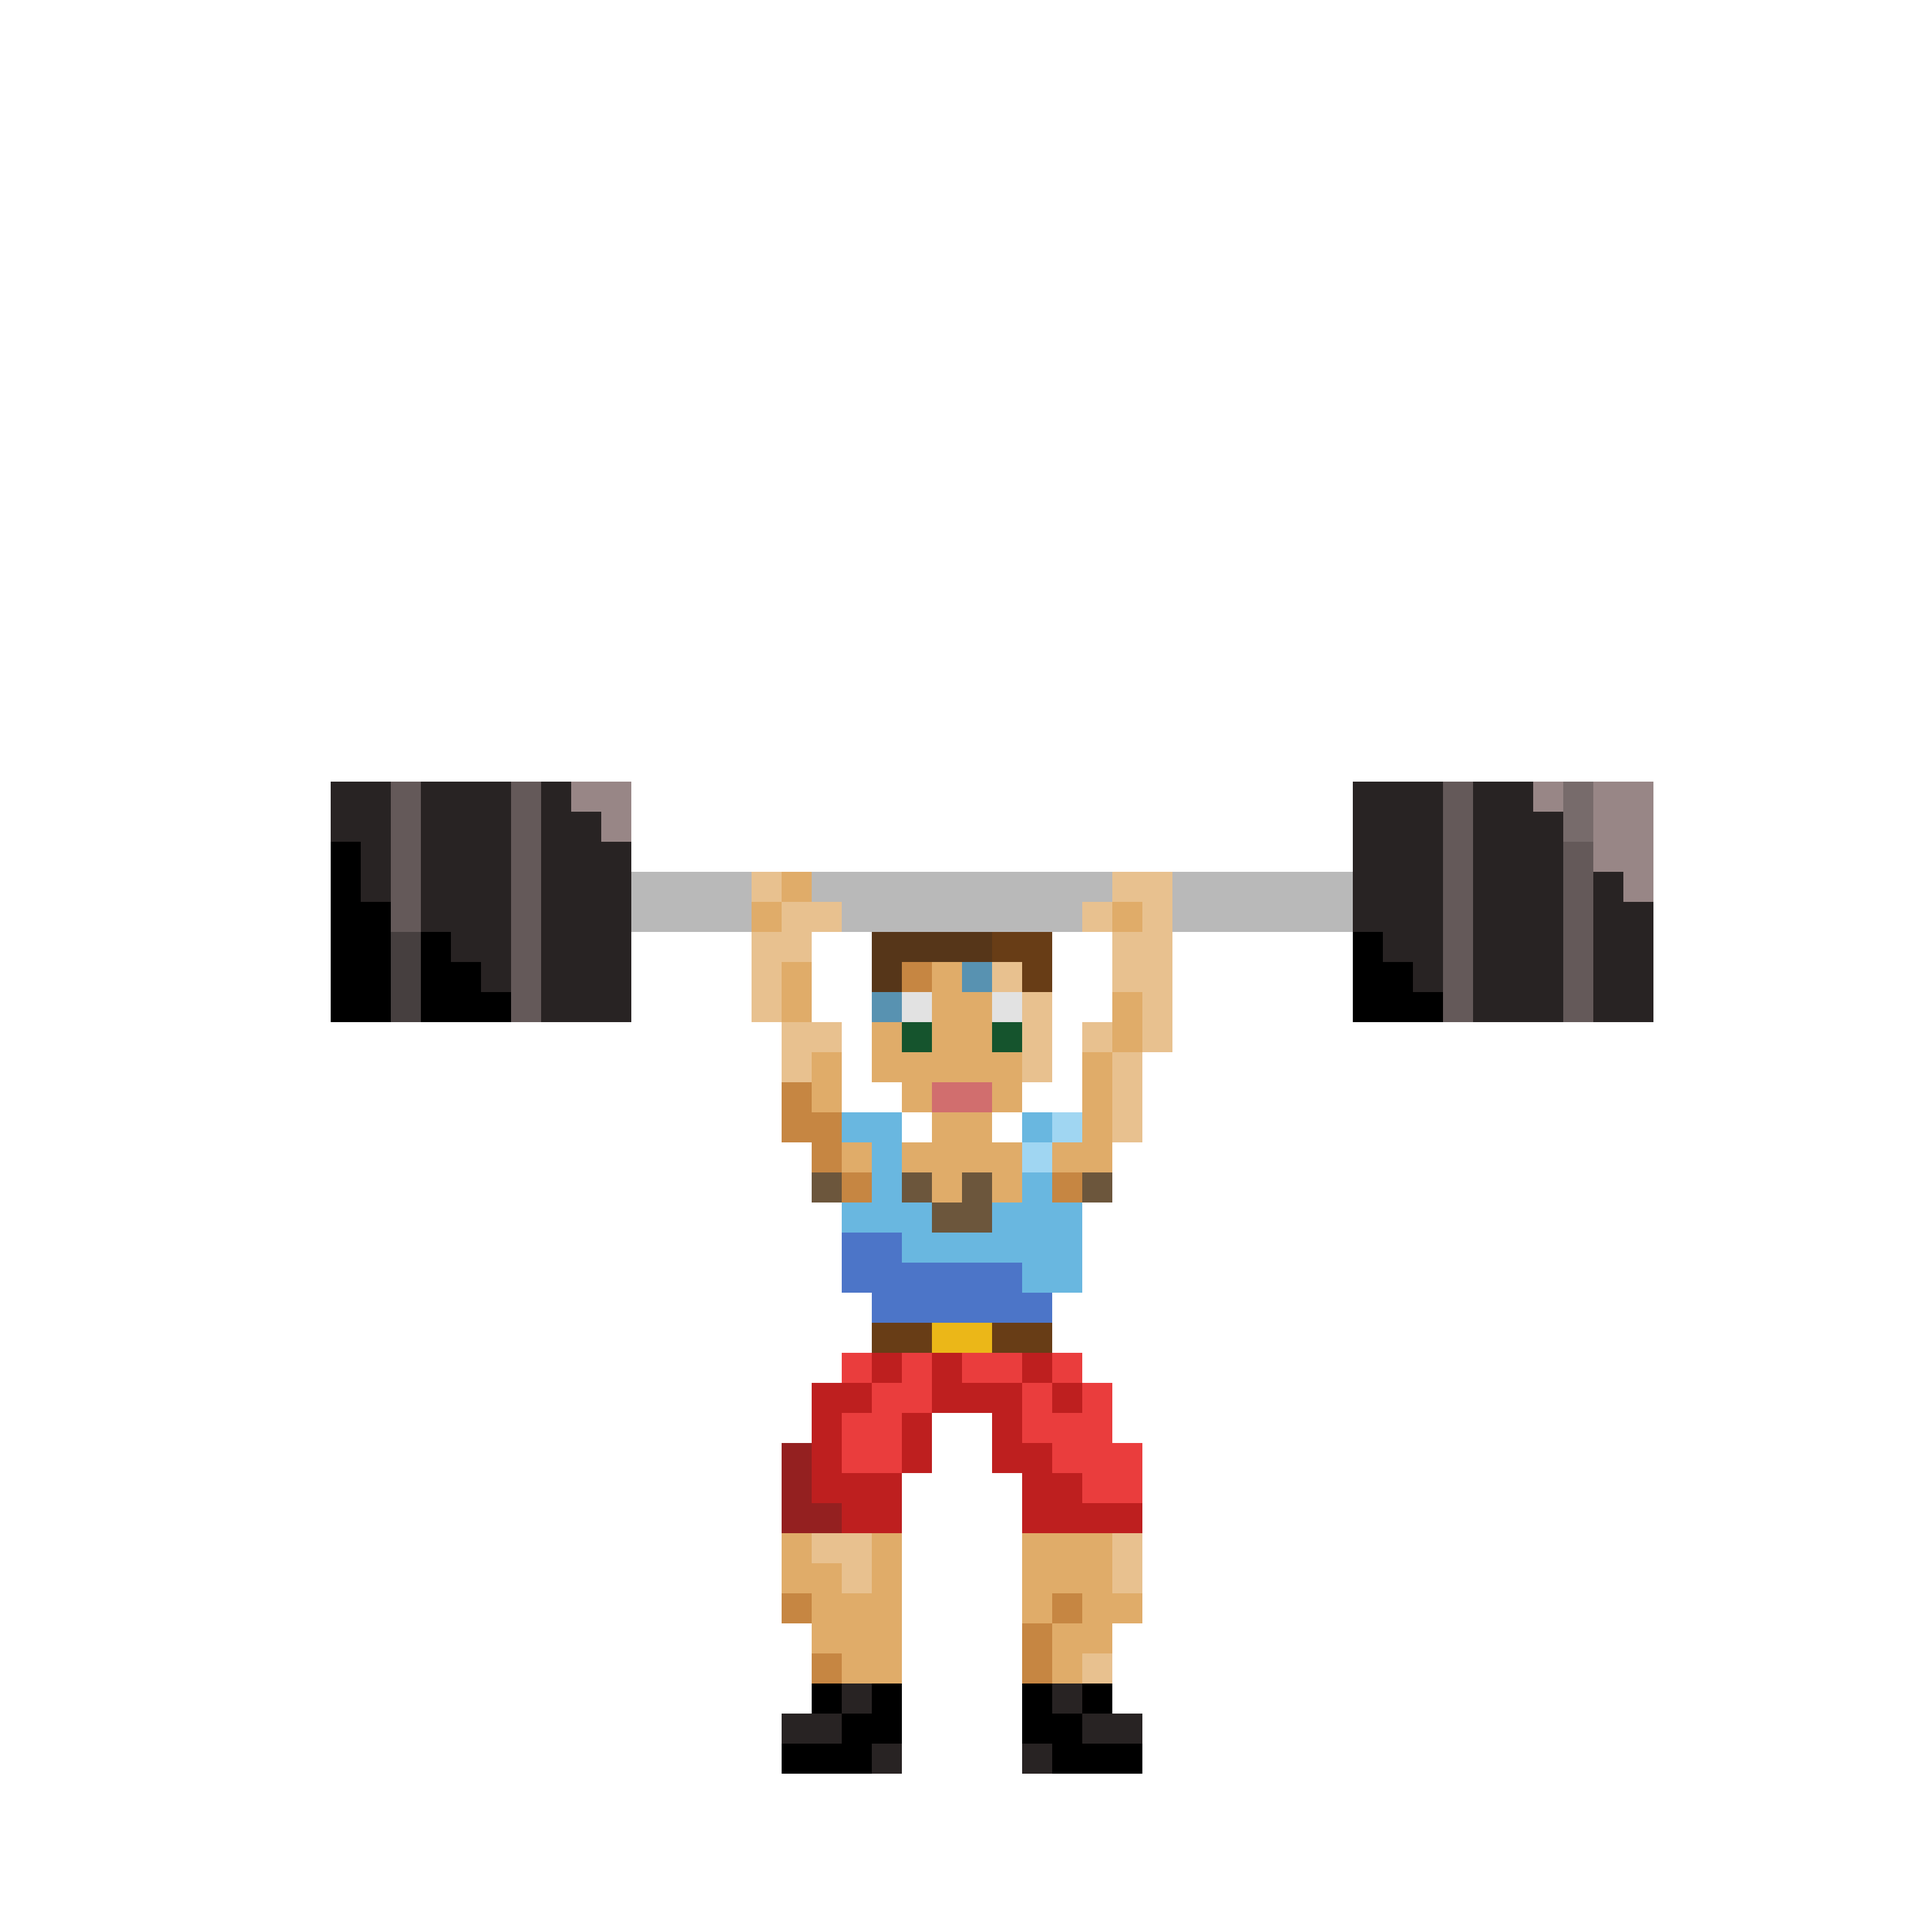
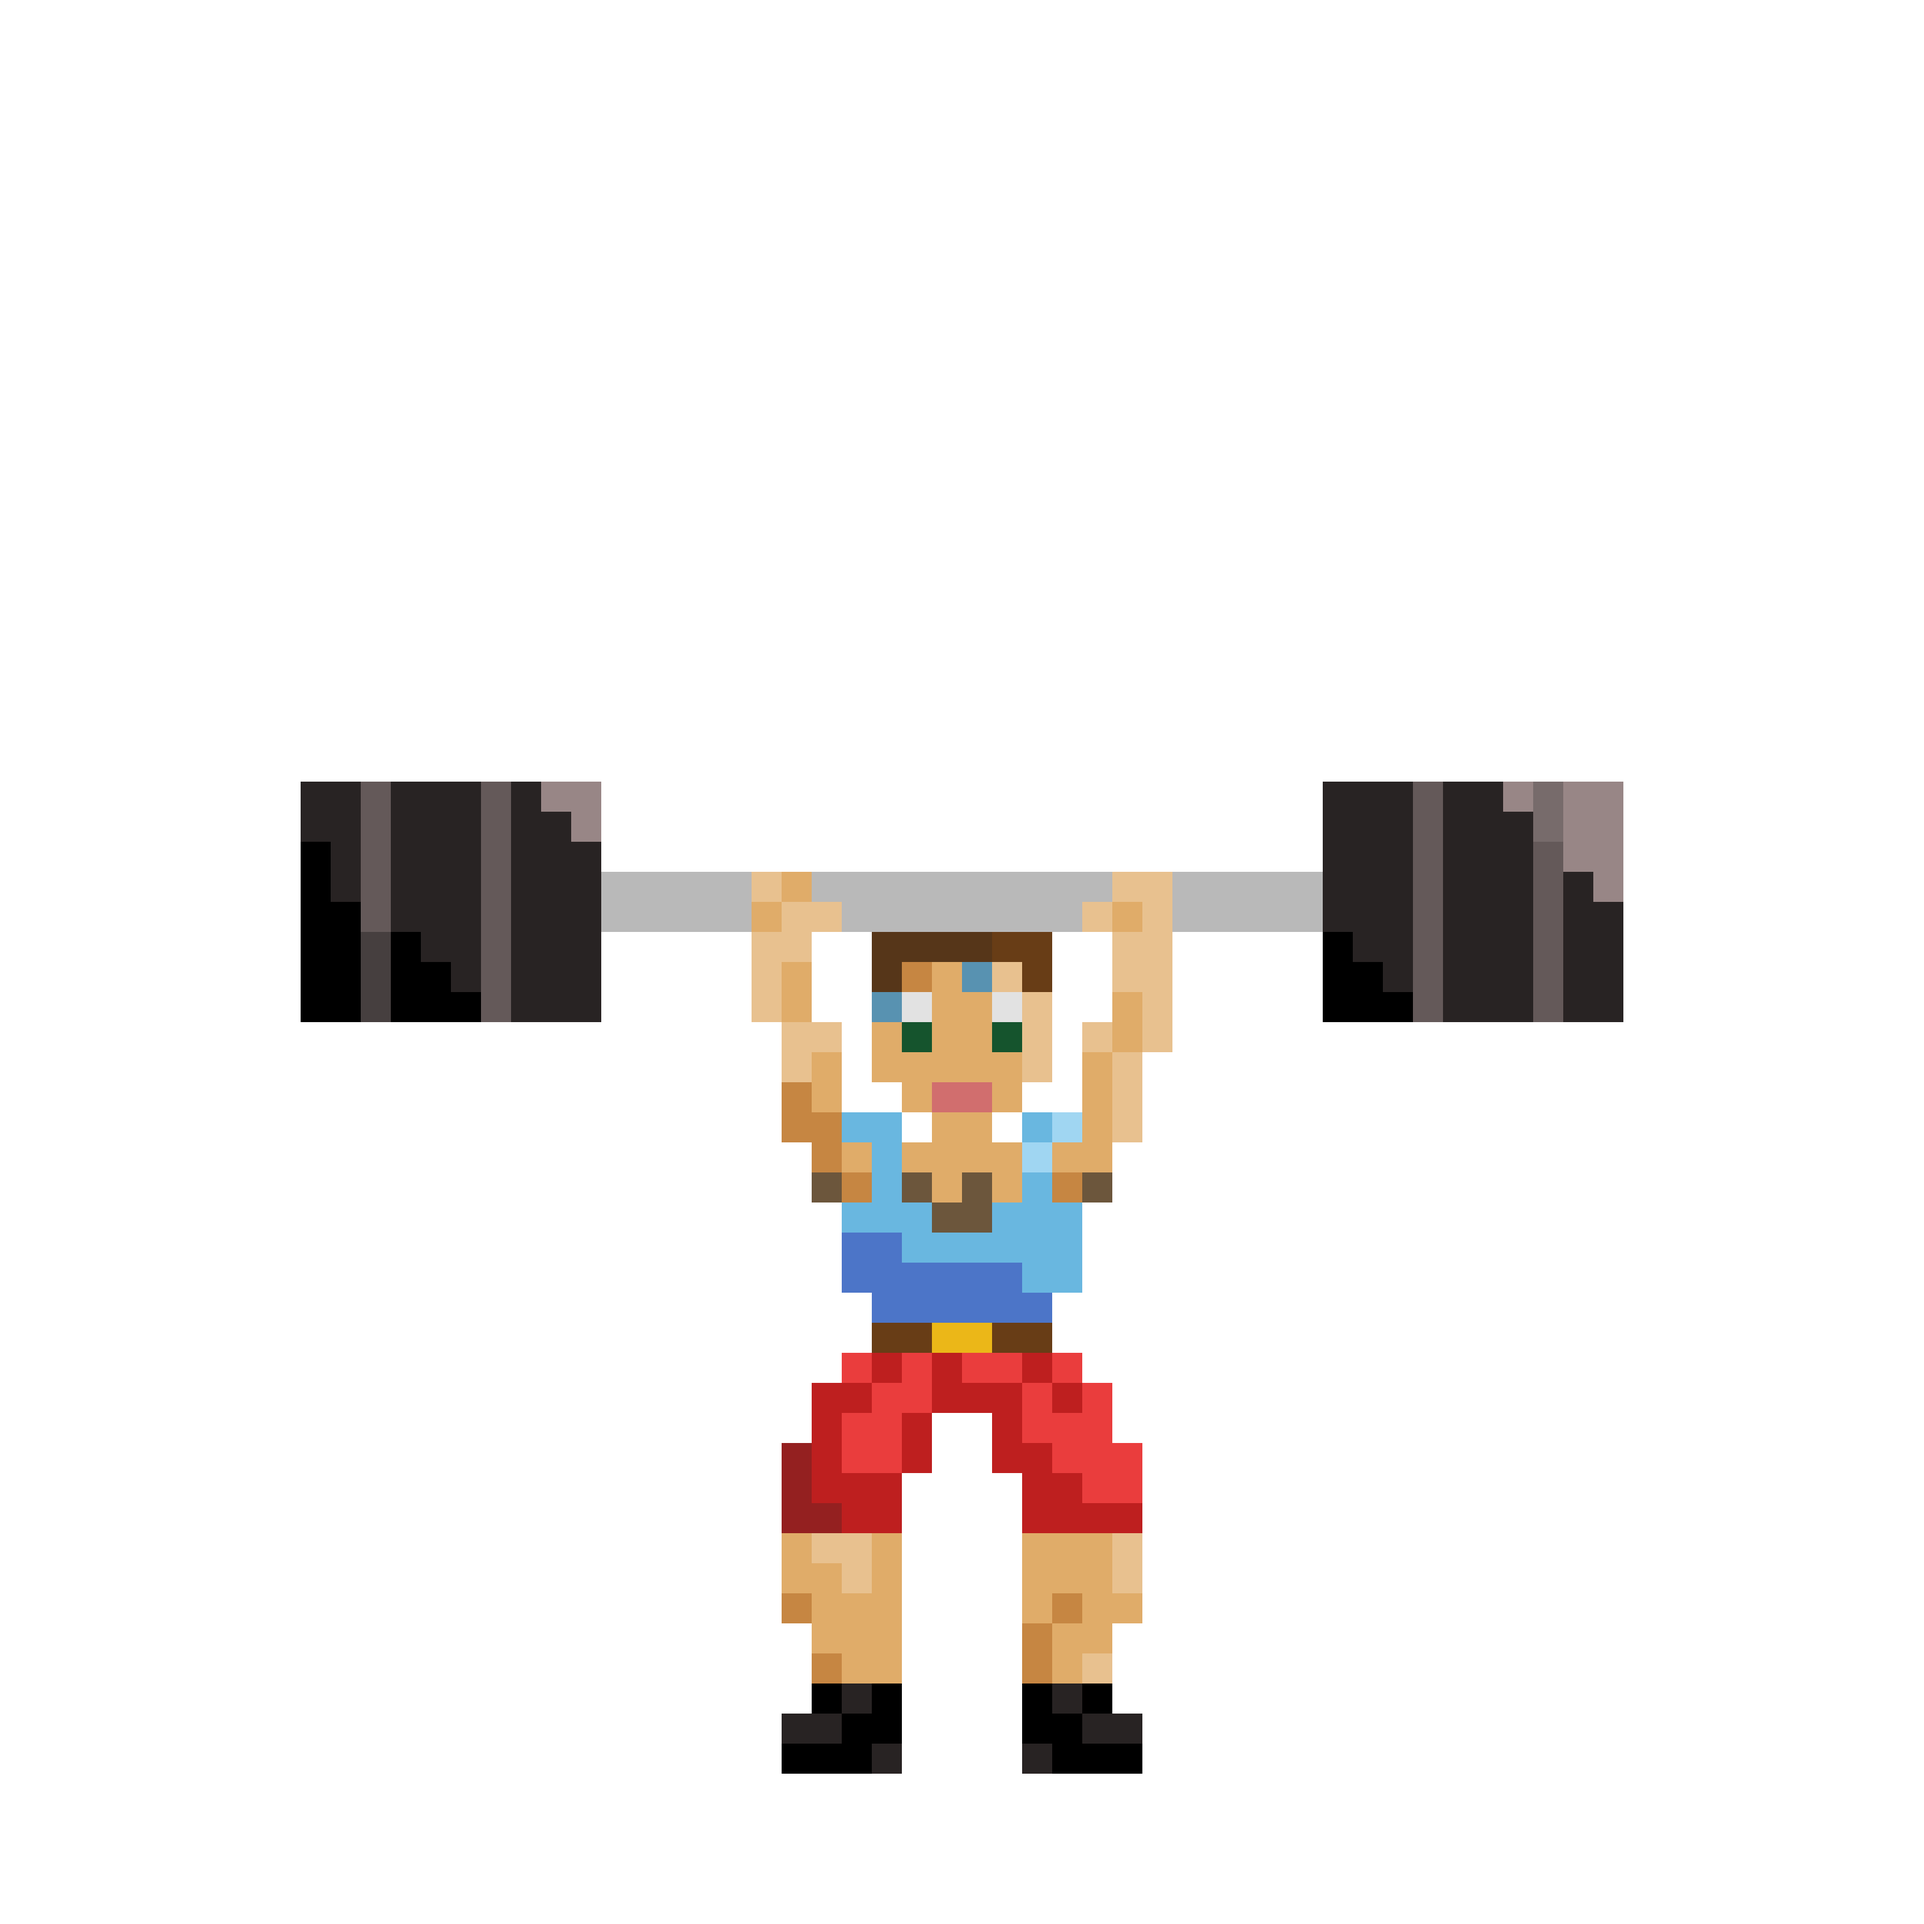
1.2

Changed region(s): [[0.6875, 0.4062, 0.875, 0.5312], [0.1562, 0.4062, 0.3438, 0.5312]]

diff --git a/main.py b/main.py
@@ -1,6 +1,6 @@
 import pygame as pg
 import time
-from math import sin, cos, radians, degrees, pi, sqrt 
+from math import sin, cos, radians, degrees, pi, sqrt, floor
 import os
 
 os.chdir("C:/Users/marti/Desktop/Weightlifting/ae1205-game")
@@ -51,27 +51,36 @@ while running:
     
     t+=dt
     
+    screen.fill(white)
+    
     if t > refreshtime:
         t = 0
         curclicks = clicks - prevclicks
         prevclicks = clicks
         clickrate = curclicks/refreshtime
     
-    text = font.render('Clickrate: ' + str(clickrate), True, black, white)
-    textRect = text.get_rect()
-    textRect.center = (X/2, 20)
-    screen.blit(text, textRect)
+    text1 = font.render('Clickrate: ' + str(clickrate), True, black, white)
+    text1Rect = text1.get_rect()
+    text1Rect.center = (X/2, 20)
+    screen.blit(text1, text1Rect)
+    
+    text2 = font.render(str(floor(score)) + " %", True, black, white)
+    text2Rect = text2.get_rect()
+    text2Rect.center = (X/2, 60)
+    screen.blit(text2, text2Rect)
     
     print(score)
     
     
-    
-    if clickrate >= 4:
-        score = score + (clickrate-4) * k * dt
-    elif clickrate < 4 and score > 0:
-        score = score - 10*dt
+    if score < 100:
+        if clickrate >= 4:
+            score = score + (clickrate-4) * k * dt
+        elif clickrate < 4 and score > 0:
+            score = score - 10*dt
+        else:
+            score = 0
     else:
-        score = 0
+        score = 100;
    
     if score < 33:
         pos = pos1
@@ -83,6 +92,8 @@ while running:
         pos = pos4
         
     posrect = pos.get_rect()
+    posrect.centerx = X/2
+    posrect.centery = Y/2
     screen.blit(pos, posrect)
         
     pg.display.flip()
